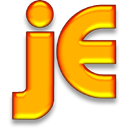
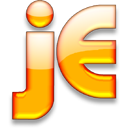
new splash from krisk, multiple hypersearch patch from peter cox

diff --git a/org/gjt/sp/jedit/search/HyperSearchResults.java b/org/gjt/sp/jedit/search/HyperSearchResults.java
@@ -110,39 +110,44 @@ public class HyperSearchResults extends JPanel implements EBComponent
 		{
 			BufferUpdate bmsg = (BufferUpdate)msg;
 			Buffer buffer = bmsg.getBuffer();
-			if(bmsg.getWhat() == BufferUpdate.LOADED)
+			Object what = bmsg.getWhat();
+			if(what == BufferUpdate.LOADED ||
+				what == BufferUpdate.CLOSED)
 			{
-				for(int i = resultTreeRoot.getChildCount() - 1; i >= 0; i--)
+				ResultVisitor visitor = null;
+				if (what == BufferUpdate.LOADED)
 				{
-					DefaultMutableTreeNode bufferNode = (DefaultMutableTreeNode)
-						resultTreeRoot.getChildAt(i);
-
-					for(int j = bufferNode.getChildCount() - 1;
-						j >= 0; j--)
-					{
-						HyperSearchResult result = (HyperSearchResult)
-							((DefaultMutableTreeNode)bufferNode
-							.getChildAt(j)).getUserObject();
-						if(buffer.getPath().equals(result.path))
-							result.bufferOpened(buffer);
-					}
+					visitor = new BufferLoadedVisitor();
 				}
-			}
-			else if(bmsg.getWhat() == BufferUpdate.CLOSED)
-			{
+				else // BufferUpdate.CLOSED
+				{
+					visitor = new BufferClosedVisitor();
+				}
+				// impl note: since multiple searches now allowed,
+				// extra level in hierarchy
 				for(int i = resultTreeRoot.getChildCount() - 1; i >= 0; i--)
 				{
-					DefaultMutableTreeNode bufferNode = (DefaultMutableTreeNode)
+					DefaultMutableTreeNode searchNode = (DefaultMutableTreeNode)
 						resultTreeRoot.getChildAt(i);
-
-					for(int j = bufferNode.getChildCount() - 1;
+					for(int j = searchNode.getChildCount() - 1;
 						j >= 0; j--)
 					{
-						HyperSearchResult result = (HyperSearchResult)
-							((DefaultMutableTreeNode)bufferNode
-							.getChildAt(j)).getUserObject();
-						if(buffer.getPath().equals(result.path))
-							result.bufferClosed();
+
+						DefaultMutableTreeNode bufferNode = (DefaultMutableTreeNode)
+							searchNode.getChildAt(j);
+
+						for(int k = bufferNode.getChildCount() - 1;
+							k >= 0; k--)
+						{
+							Object userObject =
+								((DefaultMutableTreeNode)bufferNode
+								.getChildAt(k)).getUserObject();
+							HyperSearchResult result = (HyperSearchResult)
+									userObject;
+
+							if(buffer.getPath().equals(result.path))
+								visitor.visit(buffer,result);
+						}
 					}
 				}
 			}
@@ -158,25 +163,39 @@ public class HyperSearchResults extends JPanel implements EBComponent
 	//{{{ searchStarted() method
 	public void searchStarted()
 	{
-		caption.setText(jEdit.getProperty("hypersearch-status"));
-		resultTreeRoot.removeAllChildren();
-		resultTreeModel.reload(resultTreeRoot);
+		caption.setText(jEdit.getProperty("hypersearch-results..searching"));
+	} //}}}
+
+	//{{{ searchFailed() method
+	public void searchFailed()
+	{
+		caption.setText(jEdit.getProperty("hypersearch-results.no-results"));
 	} //}}}
 
 	//{{{ searchDone() method
-	public void searchDone(int resultCount, int bufferCount)
+	public void searchDone(final MutableTreeNode searchNode)
 	{
-		updateCaption(resultCount,bufferCount);
+		final int nodeCount = searchNode.getChildCount();
+		if (nodeCount < 1)
+		{
+			searchFailed();
+			return;
+		}
+
+		caption.setText(jEdit.getProperty("hypersearch-results.done"));
 
 		SwingUtilities.invokeLater(new Runnable()
 		{
 			public void run()
 			{
-				for(int i = 0; i < resultTreeRoot.getChildCount(); i++)
+
+				resultTreeModel.insertNodeInto(searchNode, resultTreeRoot,
+					resultTreeRoot.getChildCount());
+				for(int i = 0; i < nodeCount; i++)
 				{
 					resultTree.expandPath(new TreePath(
 						((DefaultMutableTreeNode)
-						resultTreeRoot.getChildAt(i))
+						searchNode.getChildAt(i))
 						.getPath()));
 				}
 			}
@@ -198,10 +217,15 @@ public class HyperSearchResults extends JPanel implements EBComponent
 		if(path == null)
 			return;
 
-		Object value = ((DefaultMutableTreeNode)path
-			.getLastPathComponent()).getUserObject();
+		DefaultMutableTreeNode node = (DefaultMutableTreeNode)path
+			.getLastPathComponent();
+		Object value = node.getUserObject();
 
-		if(value instanceof String)
+		if(node.getParent() == resultTreeRoot)
+		{
+			// do nothing if clicked "foo (showing n occurrences in m files)"
+		}
+		else if(value instanceof String)
 		{
 			Buffer buffer = jEdit.openFile(view,(String)value);
 			if(buffer == null)
@@ -218,7 +242,7 @@ public class HyperSearchResults extends JPanel implements EBComponent
 				}
 			});
 		}
-		else
+		else if (value instanceof HyperSearchResult)
 		{
 			final HyperSearchResult result = (HyperSearchResult)value;
 			final Buffer buffer = result.getBuffer();
@@ -268,7 +292,8 @@ public class HyperSearchResults extends JPanel implements EBComponent
 	//{{{ MouseHandler class
 	class MouseHandler extends MouseAdapter
 	{
-		public void mouseClicked(MouseEvent evt)
+		//{{{ mousePressed() method
+		public void mousePressed(MouseEvent evt)
 		{
 			TreePath path1 = resultTree.getPathForLocation(
 				evt.getX(),evt.getY());
@@ -276,13 +301,55 @@ public class HyperSearchResults extends JPanel implements EBComponent
 				return;
 
 			resultTree.setSelectionPath(path1);
-			goToSelectedNode();
+			if (GUIUtilities.isPopupTrigger(evt))
+				showPopupMenu(evt);
+			else
+				goToSelectedNode();
 
 			view.toFront();
 			view.requestFocus();
 			view.getTextArea().requestFocus();
-		}
+		} //}}}
+
+		//{{{ Private members
+		private JPopupMenu popupMenu;
+
+		//{{{ showPopupMenu method
+		private void showPopupMenu(MouseEvent evt)
+		{
+			if (popupMenu == null)
+			{
+				popupMenu = new JPopupMenu();
+				popupMenu.add(new RemoveTreeNodeAction());
+			}
+
+			GUIUtilities.showPopupMenu(popupMenu,evt.getComponent(),
+				evt.getX(),evt.getY());
+			evt.consume();
+		} //}}}
+
+		//}}}
 	} //}}}
+
+	//{{{ RemoveTreeNodeAction class
+	class RemoveTreeNodeAction extends AbstractAction
+	{
+		public RemoveTreeNodeAction()
+		{
+			super(jEdit.getProperty("hypersearch-results.remove-node"));
+		}
+
+		public void actionPerformed(ActionEvent evt)
+		{
+			TreePath path = resultTree.getSelectionPath();
+			if(path == null)
+				return;
+
+			MutableTreeNode value = (MutableTreeNode)path
+				.getLastPathComponent();
+			resultTreeModel.removeNodeFromParent(value);
+		}
+	}//}}}
 
 	//{{{ TreeSelectionHandler class
 	class TreeSelectionHandler implements TreeSelectionListener
@@ -315,7 +382,20 @@ public class HyperSearchResults extends JPanel implements EBComponent
 				expanded,leaf,row,hasFocus);
 			setIcon(null);
 			DefaultMutableTreeNode node = (DefaultMutableTreeNode)value;
-			if(node.getUserObject() instanceof String)
+
+			if (node.getParent() == resultTreeRoot)
+			{
+				ResultCellRenderer.this.setFont(boldFont);
+				int bufferCount = node.getChildCount();
+				int resultCount = 0;
+				for (int i = 0; i < bufferCount; i++)
+				{
+					resultCount += node.getChildAt(i).getChildCount();
+				}
+				Object[] pp = { node.toString(), new Integer(resultCount), new Integer(bufferCount) };
+				setText(jEdit.getProperty("hypersearch-results.result-caption",pp));
+			}
+			else if(node.getUserObject() instanceof String)
 			{
 				// file name
 				ResultCellRenderer.this.setFont(boldFont);
@@ -345,3 +425,27 @@ public class HyperSearchResults extends JPanel implements EBComponent
 		} //}}}
 	} //}}}
 }
+
+//{{{ ResultVisitor interface
+interface ResultVisitor
+{
+	public void visit(Buffer buffer, HyperSearchResult result);
+} //}}}
+
+//{{{ BufferLoadedVisitor class
+class BufferLoadedVisitor implements ResultVisitor
+{
+	public void visit(Buffer buffer, HyperSearchResult result)
+	{
+		result.bufferOpened(buffer);
+	}
+} //}}}
+
+//{{{ BufferClosedVisitor class
+class BufferClosedVisitor implements ResultVisitor
+{
+	public void visit(Buffer buffer, HyperSearchResult result)
+	{
+		result.bufferClosed();
+	}
+} //}}}

diff --git a/org/gjt/sp/jedit/search/HyperSearchRequest.java b/org/gjt/sp/jedit/search/HyperSearchRequest.java
@@ -45,9 +45,8 @@ public class HyperSearchRequest extends WorkRequest
 		this.matcher = matcher;
 
 		this.results = results;
-		this.resultTreeModel = results.getTreeModel();
-		this.resultTreeRoot = (DefaultMutableTreeNode)resultTreeModel
-			.getRoot();
+		this.searchString = SearchAndReplace.getSearchString();
+		this.rootSearchNode = new DefaultMutableTreeNode(searchString);
 
 		this.selection = selection;
 	} //}}}
@@ -73,15 +72,11 @@ public class HyperSearchRequest extends WorkRequest
 
 		setProgressMaximum(fileset.getFileCount(view));
 
-		int resultCount = 0;
-		int bufferCount = 0;
-
 		// to minimise synchronization and stuff like that, we only
 		// show a status message at most twice a second
 
 		// initially zero, so that we always show the first message
 		long lastStatusTime = 0;
-
 
 		try
 		{
@@ -89,8 +84,7 @@ public class HyperSearchRequest extends WorkRequest
 			{
 				Buffer buffer = view.getBuffer();
 
-				bufferCount = 1;
-				resultCount = searchInSelection(buffer);
+				searchInSelection(buffer);
 			}
 			else
 			{
@@ -114,13 +108,7 @@ loop:				for(int i = 0; i < files.length; i++)
 					if(buffer == null)
 						continue loop;
 
-					int thisResultCount = doHyperSearch(buffer,
-						0,buffer.getLength());
-					if(thisResultCount != 0)
-					{
-						bufferCount++;
-						resultCount += thisResultCount;
-					}
+					doHyperSearch(buffer);
 				};
 			}
 		}
@@ -141,13 +129,11 @@ loop:				for(int i = 0; i < files.length; i++)
 		}
 		finally
 		{
-			final int _resultCount = resultCount;
-			final int _bufferCount = bufferCount;
 			VFSManager.runInAWTThread(new Runnable()
 			{
 				public void run()
 				{
-					results.searchDone(_resultCount,_bufferCount);
+					results.searchDone(rootSearchNode);
 				}
 			});
 		}
@@ -159,9 +145,9 @@ loop:				for(int i = 0; i < files.length; i++)
 	private View view;
 	private SearchMatcher matcher;
 	private HyperSearchResults results;
-	private DefaultTreeModel resultTreeModel;
-	private DefaultMutableTreeNode resultTreeRoot;
+	private DefaultMutableTreeNode rootSearchNode;
 	private Selection[] selection;
+	private String searchString;
 	//}}}
 
 	//{{{ searchInSelection() method
@@ -209,6 +195,13 @@ loop:				for(int i = 0; i < files.length; i++)
 	} //}}}
 
 	//{{{ doHyperSearch() method
+	private int doHyperSearch(Buffer buffer)
+		throws Exception
+	{
+		return doHyperSearch(buffer, 0, buffer.getLength());
+	} //}}}
+
+	//{{{ doHyperSearch() method
 	private int doHyperSearch(Buffer buffer, int start, int end)
 		throws Exception
 	{
@@ -221,15 +214,7 @@ loop:				for(int i = 0; i < files.length; i++)
 
 		if(resultCount != 0)
 		{
-			resultTreeRoot.insert(bufferNode,resultTreeRoot.getChildCount());
-
-			SwingUtilities.invokeLater(new Runnable()
-			{
-				public void run()
-				{
-					resultTreeModel.reload(resultTreeRoot);
-				}
-			});
+			rootSearchNode.insert(bufferNode,rootSearchNode.getChildCount());
 		}
 
 		setAbortable(true);

diff --git a/org/gjt/sp/jedit/search/SearchAndReplace.java b/org/gjt/sp/jedit/search/SearchAndReplace.java
@@ -373,7 +373,7 @@ public class SearchAndReplace
 			if(matcher == null)
 			{
 				view.getToolkit().beep();
-				results.searchDone(0,0);
+				results.searchFailed();
 				return false;
 			}
 
@@ -383,7 +383,7 @@ public class SearchAndReplace
 				s = view.getTextArea().getSelection();
 				if(s == null)
 				{
-					results.searchDone(0,0);
+					results.searchFailed();
 					return false;
 				}
 			}
